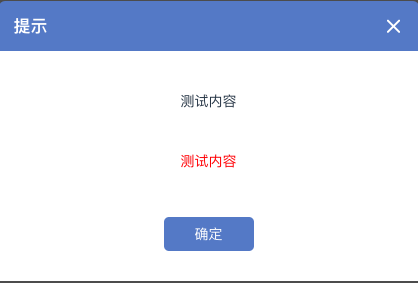
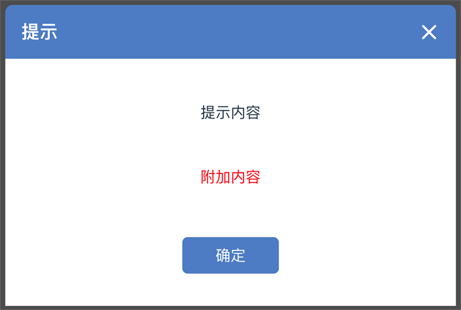
优化项目结构

diff --git a/src/packages/components/message/src/message.vue b/src/packages/components/message/src/message.vue
@@ -2,9 +2,9 @@
   <transition name="fade">
     <div class="messageBox" v-if="visible" :class="type">
       <!--<i class="fa fa-times" v-if="type != 'normal'" :class="className"></i>-->
-      <i class="icon icon-warn" v-if="type == 'warning'" :class="className"></i>
-      <i class="icon icon-check" v-if="type == 'success'" :class="className"></i>
-      <i class="icon icon-close" v-if="type == 'error'" :class="className"></i>
+      <i class="icon icon-warn" v-if="type == 'warning' && showIcon" :class="className"></i>
+      <i class="icon icon-check" v-if="type == 'success' && showIcon" :class="className"></i>
+      <i class="icon icon-close" v-if="type == 'error' && showIcon" :class="className"></i>
       <p :class="{'pd': type != 'normal'}">{{message}}</p>
     </div>
   </transition>
@@ -19,6 +19,7 @@
         className: '',
         center: true,
         type: 'normal',
+        showIcon: true,
         duration: 2500,
         visible: false,
         closed: false,
@@ -125,18 +126,18 @@
   }
   &.error{
     border:1px solid #fde2e2;
-    color:#f56c6c;
+    color:$error;
     background: #fef0f0;
   }
   &.success{
     background-color: #f0f9eb;
     border-color: #e1f3d8;
-    color:#67c23a;
+    color:$success;
   }
   &.warning{
     background-color: #fdf6ec;
     border-color: #faecd8;
-    color:#e6a23c !important;
+    color:$warning !important;
   }
 }
 </style>

diff --git a/src/packages/components/MessageBox/MessageBox.vue b/src/packages/components/MessageBox/MessageBox.vue
@@ -8,8 +8,8 @@
       <div class="MessageMainBox">
         <!--<p>{{content}}</p>-->
         <!--<p>{{appendixContent}}</p>-->
-        <p class="content">测试内容</p>
-        <p class="appendixContent" :class="{red: importantClass}">测试内容</p>
+        <p class="content">{{content}}</p>
+        <p class="appendixContent" :class="{red: importantClass}">{{appendixContent}}</p>
         <div class="buttonArea"><button @click="confrim" class="confirm">确定</button></div>
       </div>
     </div>
@@ -30,8 +30,14 @@
         default: '提示',
         type: String
       },
-      appendixContent: String,
-      content: String,
+      appendixContent: {
+          default: '',
+          type: String
+      },
+      content: {
+          default: '',
+          type: String
+      },
       showMessageBox: {
         default: true,
         type: Boolean

diff --git a/build/utils.js b/build/utils.js
@@ -53,14 +53,21 @@ exports.cssLoaders = function (options) {
       return ['vue-style-loader'].concat(loaders)
     }
   }
-
+  console.log(path.resolve(__dirname, '../src/packages/styles/global.scss'))
   // https://vue-loader.vuejs.org/en/configurations/extract-css.html
   return {
     css: generateLoaders(),
     postcss: generateLoaders(),
     less: generateLoaders('less'),
     sass: generateLoaders('sass', { indentedSyntax: true }),
-    scss: generateLoaders('sass'),
+    scss: generateLoaders('sass').concat(
+      {
+        loader: 'sass-resources-loader',
+        options: {
+          resources: path.resolve(__dirname, '../src/packages/styles/global.scss')//这里按照你的文件路径填写
+        }
+      }
+    ),
     stylus: generateLoaders('stylus'),
     styl: generateLoaders('stylus')
   }

diff --git a/src/App.vue b/src/App.vue
@@ -2,7 +2,8 @@
   <div id="app">
     <img src="./assets/logo.png">
     <HelloWorld/>
-    <MessageBox></MessageBox>
+    <MessageBox content="提示内容" appendix-content="附加内容"></MessageBox>
+    <div class="yd-blue-bg"></div>
     <button @click="showMessage">123</button>
   </div>
 </template>
@@ -14,6 +15,13 @@ export default {
   components: {
     HelloWorld
   },
+  created () {
+      this.$message({
+          message: '操作成功操作成功操作成功操作成功操作成功操作成功！',
+          type: 'warning',
+          duration: 3000
+      })
+  },
   methods: {
     showMessage () {
       this.$message.normal({
@@ -21,9 +29,6 @@ export default {
         duration: 3000
       })
     }
-  },
-  created () {
-
   }
 }
 </script>

diff --git a/src/packages/styles/color.scss b/src/packages/styles/color.scss
@@ -1,7 +1,17 @@
-$blue: #409EFF;
 $success: #67C23A;
 $warning: #E6A23C;
-$danger: #F56C6C;
-$normal: #909399;
-$fontColor: #595757;
-$borderColor: #e6e6e6;
+$error: #df4545;
+
+$baseFontColor:#595959;
+$redFontColor:#df4545;
+$grayFontColor:#999999;
+$blueFontColor:	#5f84cd;
+
+$grayBorderColor: 1px solid #e6e6e6;
+$redBorderColor: 1px solid #df4545;
+
+
+$blueBgColor: #5f84cd;
+$yellowBgColor:#fdf6ec;
+$grayBgColor:#ededef;
+$greenBgColor:#f0f9eb;

diff --git a/src/packages/index.js b/src/packages/index.js
@@ -1,4 +1,5 @@
-import './styles/index.scss'
+import './styles/global.scss'
+import './styles/font.scss'
 import MessageBox from './components/MessageBox/index.js'
 import Message from './components/message/index'
 const components = [

diff --git a/src/packages/styles/global.scss b/src/packages/styles/global.scss
@@ -1,5 +1,4 @@
+@import "color";
 @import "varibles";
 @import "mixin";
 @import "normalize";
-@import "color";
-@import "font";

diff --git a/docs/components/colors.md b/docs/components/colors.md
@@ -1,0 +1,34 @@
+#### 文字颜色(Font Color)
+> 文字颜色因项目需求而异，仅提供基础的几种文字颜色，已添加到全局的预编译变量中，预编译使用Sass，具体颜色变量请看下表:
+
+##### 参数
+| Sass变量 | 示例 | 色值 | 适用范围 |
+| :------: | :------: | :------: | :------: |
+| $baseFontColor | <font>基础文字颜色示例</font> | #595959 | 全局文字颜色 |
+| $redFontColor | <font color=#df4545>红色文字示例</font> | #df4545 | 特殊标记、错误提示等 |
+| $grayFontColor | <font color=#999>灰色文字示例</font> | #999999 | 禁用、一般性提醒等 |
+| $blueFontColor | <font color=#5f84cd>蓝色文字示例</font> | #5f84cd | 超链接等 |
+
+***
+
+#### 边框颜色(Border Color)
+> 边框颜色因需求而异，仅提供基础的几种颜色，已添加到全局的预编译变量中，预编译使用Sass，具体颜色变量请看下表:
+
+##### 参数
+| Sass变量 | 变量值 | 示例 | 色值 | 适用范围 |
+| :------: | :------: | :------: | :------: | :------: |
+| $grayBorderColor| 1px solid #e6e6e6 | <div style="width:100px;height:20px;border: 1px solid #e6e6e6"></div>| #e6e6e6 | 常用的输入框边框颜色 |
+| $redBorderColor | 1px solid #df4545 | <div style="width:100px;height:20px;border: 1px solid #df4545"></div> | #df4545 | 错误性输入框边框颜色 |
+
+***
+
+#### 背景颜色(Background Color)
+> 背景颜色因项目需求而异，仅提供基础的几种背景颜色，已添加到全局的预编译变量中，预编译使用Sass，具体颜色变量请看下表:
+
+##### 参数
+| Sass变量 | 示例 | 色值 | 适用范围 |
+| :------: | :------: | :------: | :------: |
+| $blueBgColor | <div style="width:100px;height:20px;background:#5f84cd"></div> | #5f84cd | 按钮背景颜色 |
+| $yellowBgColor | <div style="width:100px;height:20px;background:#fdf6ec"></div> | #fdf6ec | 警告、通知背景颜色等 |
+| $grayBgColor | <div style="width:100px;height:20px;background:#ededef"></div>| #ededef | 禁用 |
+| $greenBgColor | <div style="width:100px;height:20px;background:#f0f9eb"></div> | #f0f9eb | 成功提示等 |

diff --git a/docs/components/messageBox.md b/docs/components/messageBox.md
@@ -10,7 +10,8 @@
 | content | 消息内容 | string | - | - |
 | appendixContent | 附加说明 | string | - | - |
 | importantClass | 附加说明是否标红 | bool | - | - |
-##### 事件
+
+##### emit事件
 | 名称 | 说明 | 类型 | 可选值 | 默认值 |
 | :------: | :------: | :------: | :------: | :------: |
 | closeMessageBox | 关闭弹窗回调函数 | event | - | - |

diff --git a/docs/_sidebar.md b/docs/_sidebar.md
@@ -1,4 +1,6 @@
 * [简介](/about)
+* [文字、边框与背景颜色](/components/colors)
 * 组件
     * [消息盒子](/components/message)
     * [消息弹窗](/components/messageBox)
+    * [Loading](/components/loading)

diff --git a/docs/about.md b/docs/about.md
@@ -1,2 +1,2 @@
 ### yd-ui是什么
-yd-ui是内部Vue组件库，提供给公司内部做便捷开发使用，基于vue2.0
+yd-ui是内部Vue组件库，提供给公司内部做便捷开发使用，基于vue2.0(2.5.17)

diff --git a/docs/components/loading.md b/docs/components/loading.md
@@ -1,4 +1,4 @@
-#### 消息盒子(Message Box)
+#### Loading
 > 消息盒子为项目提供的是成功、警告、提示、错误的提醒，具体表现如下:
 
 ![success](../images/message/success.png)
